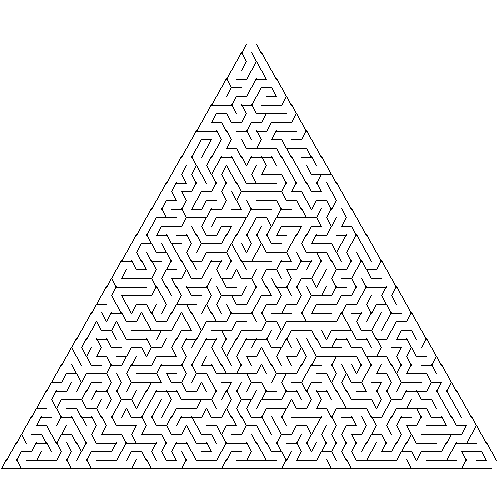
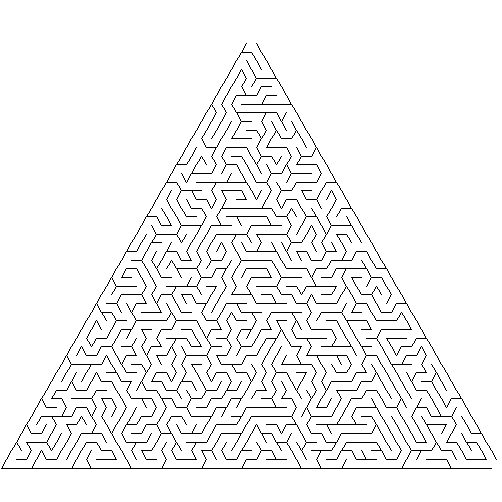
Fixed uneven triangle bug

Changed region(s): [[0.0299, 0.0896, 0.9861, 0.9263]]

diff --git a/src/MazeRenderers/TriangularMazeRenderer/TriangularMazeRenderer.java b/src/MazeRenderers/TriangularMazeRenderer/TriangularMazeRenderer.java
@@ -28,16 +28,16 @@ public class TriangularMazeRenderer {
         for(int x=0; x<maze.sideLength; x++){
             for(int y=0; y<maze.sideLength-x; y++){
                 int value = maze.grid[x][y][0];
-                int baseY = bufferedImage.getHeight()-(int) (yMargin+y*triangleTop*pixelsPerTriangle);
+                double baseY = bufferedImage.getHeight()-yMargin-y*triangleTop*pixelsPerTriangle;
                 int baseX = options.margin+pixelsPerTriangle*x+y*pixelsPerTriangle/2;
                 if((value|1)!=value){
-                    gc.drawLine(baseX+pixelsPerTriangle/2, (int) (baseY-triangleTop*pixelsPerTriangle),baseX+pixelsPerTriangle,baseY);
+                    gc.drawLine(baseX+pixelsPerTriangle/2, (int) (baseY-triangleTop*pixelsPerTriangle),baseX+pixelsPerTriangle,(int)baseY);
                 }
                 if((value|4)!=value){
-                    gc.drawLine(baseX,baseY,baseX+pixelsPerTriangle/2,(int) (baseY-triangleTop*pixelsPerTriangle));
+                    gc.drawLine(baseX,(int)baseY,baseX+pixelsPerTriangle/2,(int) (baseY-triangleTop*pixelsPerTriangle));
                 }
                 if((value|2)!=value){
-                    gc.drawLine(baseX,baseY,baseX+pixelsPerTriangle,baseY);
+                    gc.drawLine(baseX,(int)baseY,baseX+pixelsPerTriangle,(int)baseY);
                 }
             }
         }
